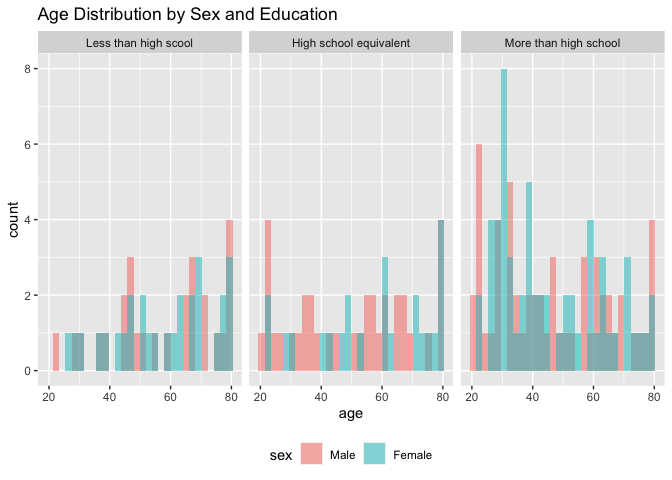
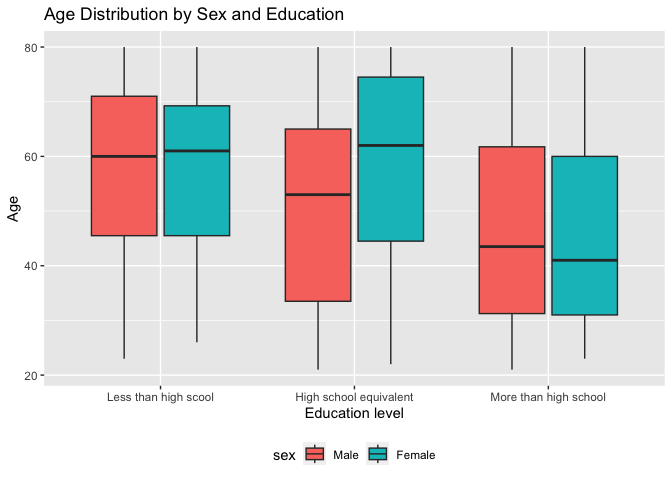
p3

diff --git a/p8105_hw3_lt2949.md b/p8105_hw3_lt2949.md
@@ -23,6 +23,7 @@ library(dplyr)
 library(ggplot2)
 library(readxl)
 library(tidyr)
+library(stringr)
 ```
 
 # Problem1
@@ -40,6 +41,7 @@ data("brfss_smart2010")
 # Clean the data
 cleaned_bs2010 <- brfss_smart2010 |>
   janitor::clean_names() |>
+  # Rename suitable vairiable names
    rename("state_id" = "locationabbr",
           "county_id" = "locationdesc") |>
   filter(topic == "Overall Health",
@@ -79,7 +81,8 @@ print(states_2010$state_id)
 
 In 2002, CT, FL, MA, NC, NJ, PA those 6 states were observed at 7 or
 more locations.  
-In 2010, those 14 states were observed at 7 or more locations.
+In 2010, CA, CO, FL, MA, MD, NC, NE, NJ, NY, OH, PA, SC, TX, WA those 14
+states were observed at 7 or more locations.
 
 ``` r
 # Spaghetti plot
@@ -102,6 +105,8 @@ ggplot(excellent_data, aes(x = year, y = avg_data_value, group = state_id, color
 ```
 
 ![](p8105_hw3_lt2949_files/figure-gfm/unnamed-chunk-5-1.png)<!-- -->
+Here is the “spaghetti” plot, showing the average value of ‘Excellent’
+response from 2002 to 2010 by the location states.
 
 ``` r
 # Two-panel plot
@@ -118,6 +123,10 @@ ggplot(ny_data, aes(x = response, y = data_value, fill = response)) +
 ```
 
 ![](p8105_hw3_lt2949_files/figure-gfm/unnamed-chunk-6-1.png)<!-- -->
+This is two-panel plot, which shows the data value distribution for five
+response levels among locations in NY state in 2006 and 2010. Both in
+2006 and 2010 plots, the “Poor” response has smallest range of data
+values, while “Very Good” has the widest range.
 
 # Problem3
 
@@ -151,12 +160,16 @@ cleaned_data <-
           )) 
 ```
 
+We import and cleaned two datasets, then merge them by “seqn” which I
+rename as “participants_id”.
+
 ``` r
 # Produce  a reader-friendly table
 reader_table <- 
   cleaned_data |>
   group_by(sex, education) |>
-  summarise(count = n())
+  summarise(count = n()) |>
+  pivot_wider(names_from = sex, values_from = count)
 ```
 
     ## `summarise()` has grouped output by 'sex'. You can override using the `.groups`
@@ -166,52 +179,42 @@ reader_table <-
 print(reader_table)
 ```
 
-    ## # A tibble: 6 × 3
-    ## # Groups:   sex [2]
-    ##   sex    education              count
-    ##   <fct>  <fct>                  <int>
-    ## 1 Male   Less than high scool      27
-    ## 2 Male   High school equivalent    35
-    ## 3 Male   More than high school     56
-    ## 4 Female Less than high scool      28
-    ## 5 Female High school equivalent    23
-    ## 6 Female More than high school     59
+    ## # A tibble: 3 × 3
+    ##   education               Male Female
+    ##   <fct>                  <int>  <int>
+    ## 1 Less than high scool      27     28
+    ## 2 High school equivalent    35     23
+    ## 3 More than high school     56     59
 
 ``` r
 # Visualization of the age distribution
-ggplot(cleaned_data, aes(x = age, fill = sex)) +
-  geom_histogram(alpha = 0.5, position = "identity") +
-  facet_wrap(~ education) +
-  labs(title = "Age Distribution by Sex and Education") +
+ggplot(cleaned_data, aes(x = education, y = age, fill = sex)) +
+  geom_boxplot() +
+  labs(title = "Age Distribution by Sex and Education",
+       x = "Education level",
+       y = "Age") +
   theme(legend.position = "bottom")
 ```
 
-    ## `stat_bin()` using `bins = 30`. Pick better value with `binwidth`.
-
-![](p8105_hw3_lt2949_files/figure-gfm/unnamed-chunk-8-1.png)<!-- -->
+![](p8105_hw3_lt2949_files/figure-gfm/unnamed-chunk-8-1.png)<!-- --> The
+box plot illustrates the age distribution across three educational
+levels for both genders. The table indicates a higher number of females
+in the advanced education category, while more males possess a high
+school-equivalent education.
 
 ``` r
-# Calculate a total activity variable
-total_activity_data <- 
-  cleaned_data |>
-  rowwise() |>
-  mutate(total_activity = sum(c_across(starts_with("min"))))
-
-# Visualization the total activity
-ggplot(total_activity_data, aes(x = age, y = total_activity, color = sex)) +
-  geom_point(alpha = .7) +
-  geom_smooth() +
-  facet_wrap(~ education) +
-  labs(title = "Total Activity vs Age by Sex and Education")
+avg_activity_data <- cleaned_data |>
+  group_by(education, sex) |>
+  summarise(across(starts_with("min"), mean, .names = "mean_{.col}"), .groups = "drop") |>
+  pivot_longer(cols = starts_with("mean_"), names_to = "time", values_to = "mean") |>
+  mutate(time = as.numeric(str_remove(time, "mean_min")))
+         
+ggplot(avg_activity_data, aes(x = time, y = mean, color = sex)) +
+  geom_line() +
+  facet_grid(~education) +
+  labs(title = "24-Hour Activity by Education and Gender", 
+       x = "Time in mins",
+       y = "Mean value of activity")
 ```
-
-    ## `geom_smooth()` using method = 'loess' and formula = 'y ~ x'
 
 ![](p8105_hw3_lt2949_files/figure-gfm/unnamed-chunk-9-1.png)<!-- -->
-
-``` r
-avg_activity_data <-
-  cleaned_data |>
-  group_by(education, sex) |>
-  summarise(avg_activity = mean(c_across(starts_with("min")), na.rm = TRUE), .groups = "drop")
-```
